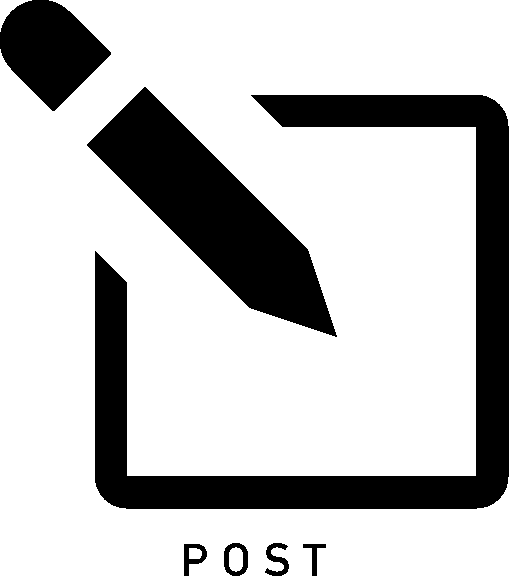
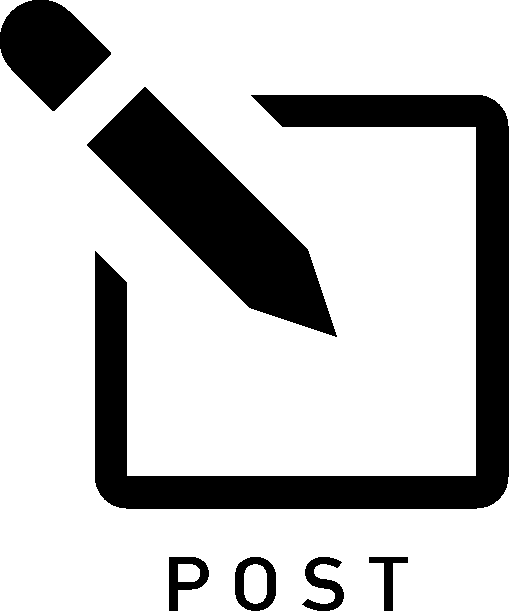
modification to buttons

diff --git a/app/views/partials/events/view.html b/app/views/partials/events/view.html
@@ -42,7 +42,7 @@
             <img id="going-img" src="/static/img/check35.png" width="55">
         </div>
         <div id="post">
-            <img id="post-img" src="/static/img/interface19_activate.png" width="45">
+            <img id="post-img" src="/static/img/interface19.png" width="45">
         </div>
         <div id="share">
             <img id="share-img" src="/static/img/mail9.png" width="45">

diff --git a/app/static/css/main.css b/app/static/css/main.css
@@ -107,6 +107,11 @@
   width:33%;
 }
 
+#going, #post {
+  border-right: thin solid rgb(163, 163, 163);
+  height: 100%;
+}
+
 #going-img, #post-img, #share-img {
   margin-left:20px;
   margin-top:7px;
@@ -118,6 +123,7 @@
 
 #short-gray-desc{
   color:gray;
+  font-size: smaller;
 }
 
 body {
